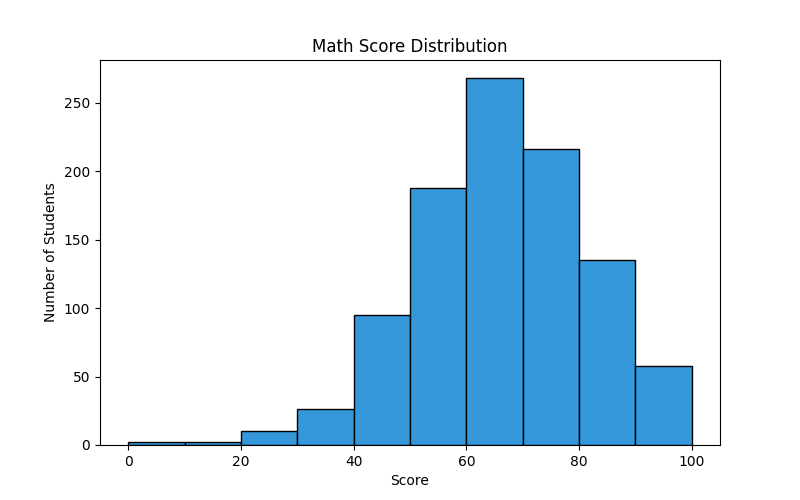
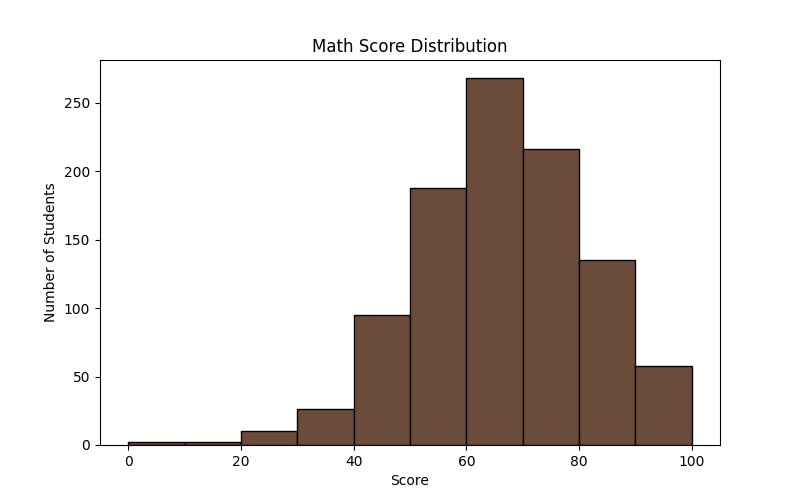
third commit

Changed region(s): [[0.1562, 0.15, 0.875, 0.9]]

diff --git a/templates/index.html b/templates/index.html
@@ -61,7 +61,7 @@
 </head>
 <body>
 
-<h1>📊 Student Performance Report</h1>
+<h1> Student Performance Report</h1>
 
 <h2>Overall Statistics</h2>
 <table>

diff --git a/main.py b/main.py
@@ -5,22 +5,21 @@ import os
 
 app = Flask(__name__)
 
-# Subjects to analyze
 SUBJECTS = ['math score', 'reading score', 'writing score']
 
-# ---------------- Load CSV ----------------
+
 def load_data():
     """Load default CSV from data folder"""
     current_dir = os.path.dirname(os.path.abspath(__file__))
     csv_path = os.path.join(current_dir, 'data', 'StudentsPerformance.csv')
     df = pd.read_csv(csv_path)
     
-    # Ensure 'Student' column exists
+    
     if 'Student' not in df.columns:
         df.insert(0, 'Student', ['Student_' + str(i+1) for i in range(len(df))])
     return df
 
-# ---------------- Compute statistics ----------------
+
 def compute_stats(df):
     numeric = df[SUBJECTS]
     mean = numeric.mean().to_dict()
@@ -30,24 +29,24 @@ def compute_stats(df):
     std = numeric.std().to_dict()
     return mean, median, mode, std
 
-# ---------------- Top students ----------------
+
 def top_students(df, subject='math score', n=5):
     return df.nlargest(n, subject)
 
-# ---------------- Subjects needing improvement ----------------
+
 def subjects_to_improve(df):
     mean = df[SUBJECTS].mean()
     overall = mean.mean()
     needs = mean[mean < overall].sort_values()
     return needs.to_dict()
 
-# ---------------- Save charts ----------------
+
 def save_charts(df):
     os.makedirs('static', exist_ok=True)
 
-    # Histogram of math scores
+   
     plt.figure(figsize=(8,5))
-    plt.hist(df['math score'], bins=10, edgecolor='black', color='#3498db')
+    plt.hist(df['math score'], bins=10, edgecolor='black', color="#6b4c3b")
     plt.title("Math Score Distribution")
     plt.xlabel("Score")
     plt.ylabel("Number of Students")
@@ -55,10 +54,10 @@ def save_charts(df):
     plt.savefig(os.path.join('static', math_img))
     plt.close()
 
-    # Bar chart of mean scores
+    
     means = df[SUBJECTS].mean()
-    plt.figure(figsize=(6,4))
-    means.plot(kind='bar', color=['#e74c3c','#2ecc71','#f1c40f'])
+    plt.figure(figsize=(10,10))
+    means.plot(kind='bar', color=['#6b4c3b','#6b4c3b','#6b4c3b'])
     plt.title("Mean Score by Subject")
     plt.ylabel("Average Score")
     plt.ylim(0,100)
@@ -68,7 +67,7 @@ def save_charts(df):
 
     return math_img, mean_img
 
-# ---------------- Flask route ----------------
+
 @app.route('/')
 def index():
     df = load_data()
@@ -82,6 +81,6 @@ def index():
                            top=top, needs=needs,
                            math_img=math_img, mean_img=mean_img)
 
-# ---------------- Run app ----------------
+
 if __name__ == '__main__':
     app.run(debug=True)
